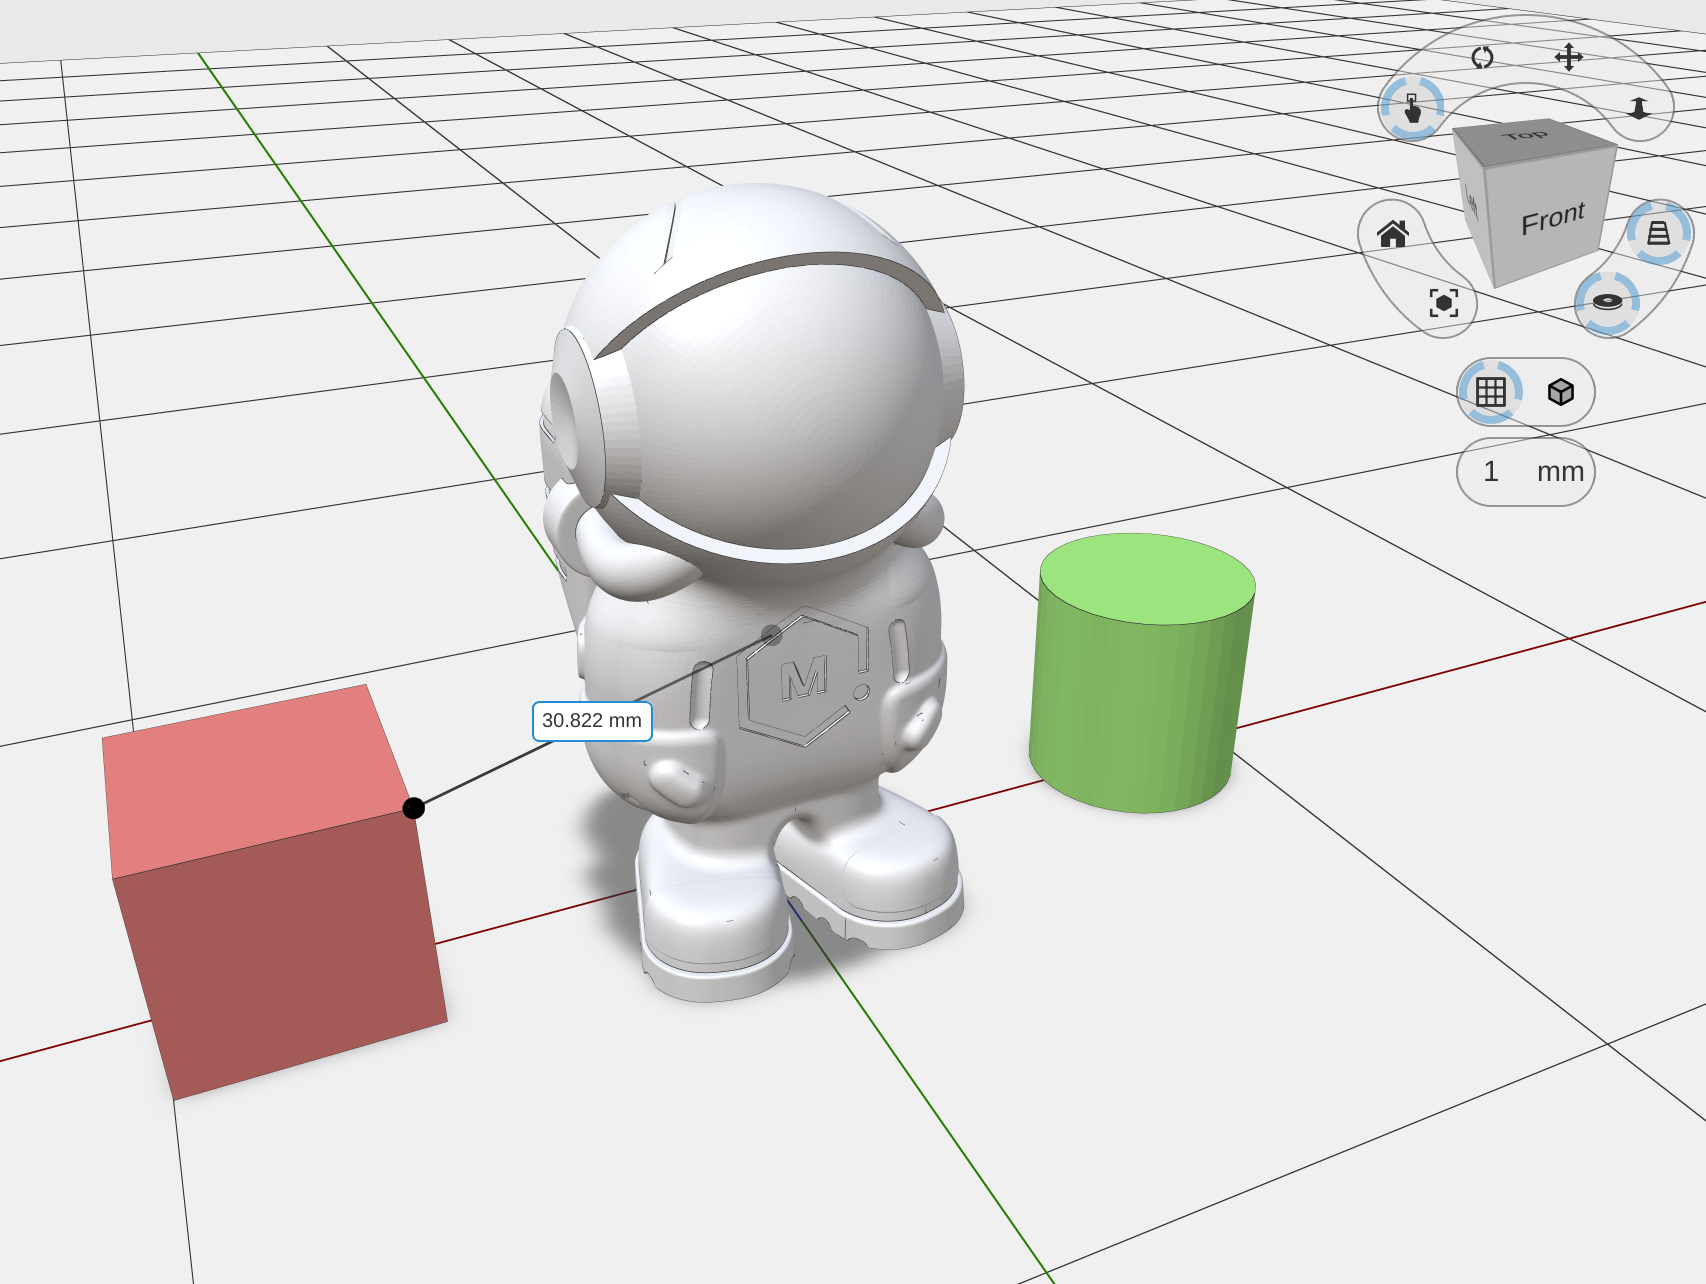
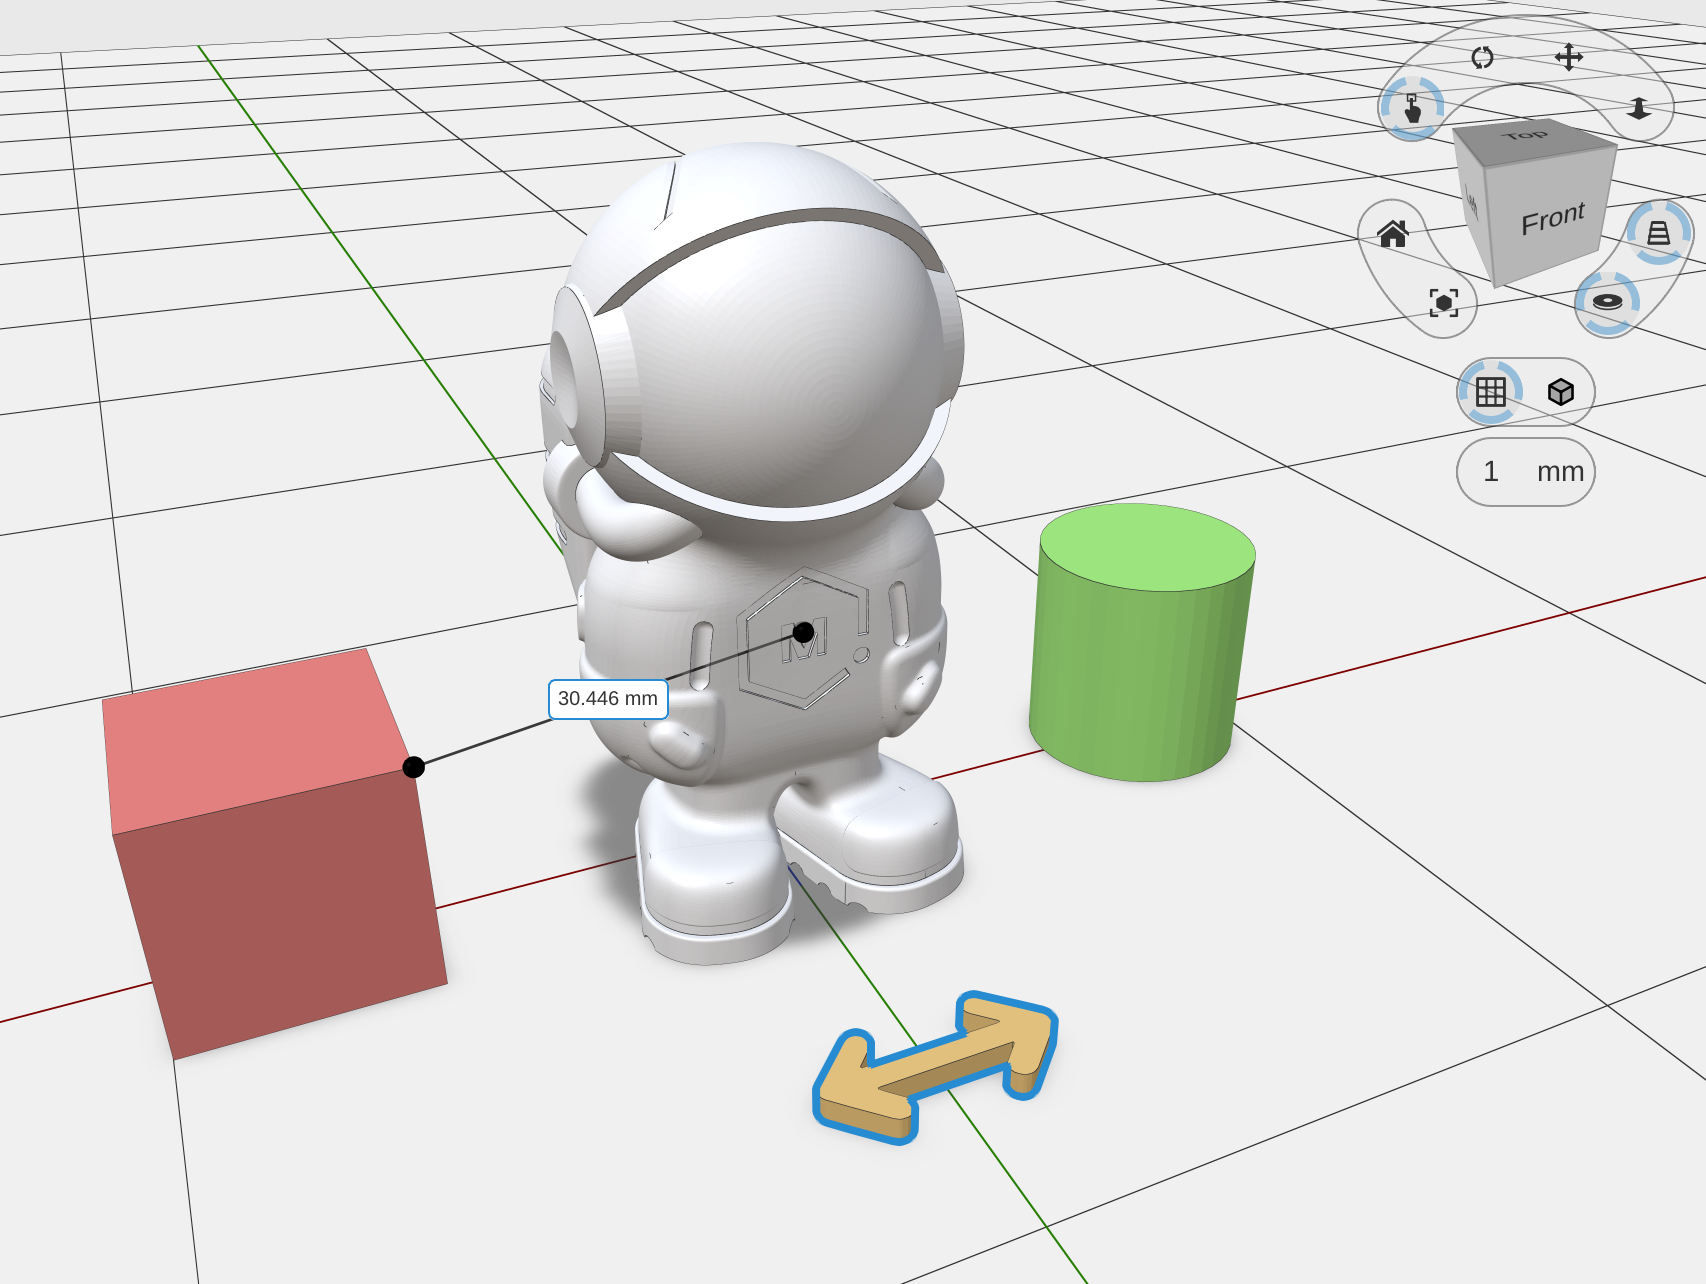
The node editor help pictures open their graph as a new graph opens: its cards readable from the top-left
The Workspace node editor and fillet selection designs no longer store the node editor view they
were last saved with (zoom 0.26 and 0.15, which drew the cards too small to read); their graphs
have the never-viewed view, so the help's editor opens them at a readable zoom from the graph's
top-left, and Home still fits the whole graph. The node pictures, the Group, Ungroup and AI Undo
hover pictures and the Measure Tool picture are made again; the Measure Tool's alt text names its
marker on the bed and the astronaut's chest.

diff --git a/docs/Help/workspace/measure-tool.md b/docs/Help/workspace/measure-tool.md
@@ -12,7 +12,7 @@ The Measure Tool lets you measure distances between points in your design. Place
 
 <!--  Screenshot showing the Measure Tool with a distance measurement displayed between two points -->
 <!-- AUTO_IMAGE: type=shot id=workspace-measure-tool -->
-![The Measure Tool selected: a line from the cube's top corner to the astronaut, a sphere at each end, and the distance between them shown on the line](https://matterhackers.github.io/MatterCAD_Docs/assets/workspace-measure-tool.png)
+![The Measure Tool selected, its marker outlined on the bed: a line from the cube's top corner to the astronaut's chest, a sphere at each end, and the distance between them shown on the line](https://matterhackers.github.io/MatterCAD_Docs/assets/workspace-measure-tool.png)
 
 
 ## How to Use
